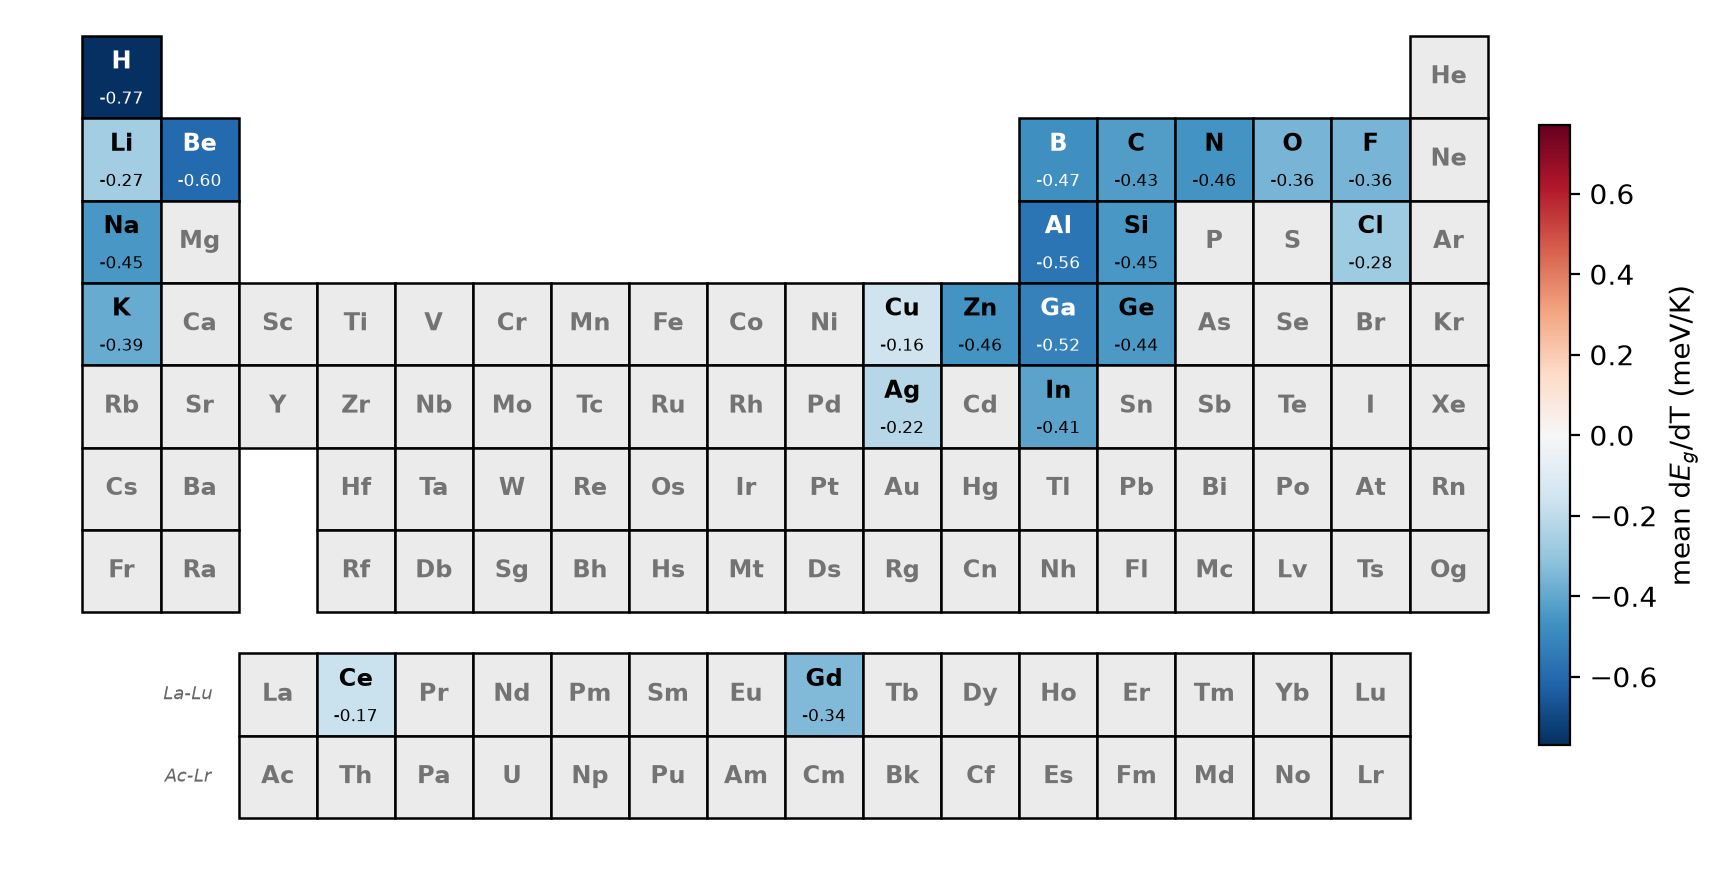
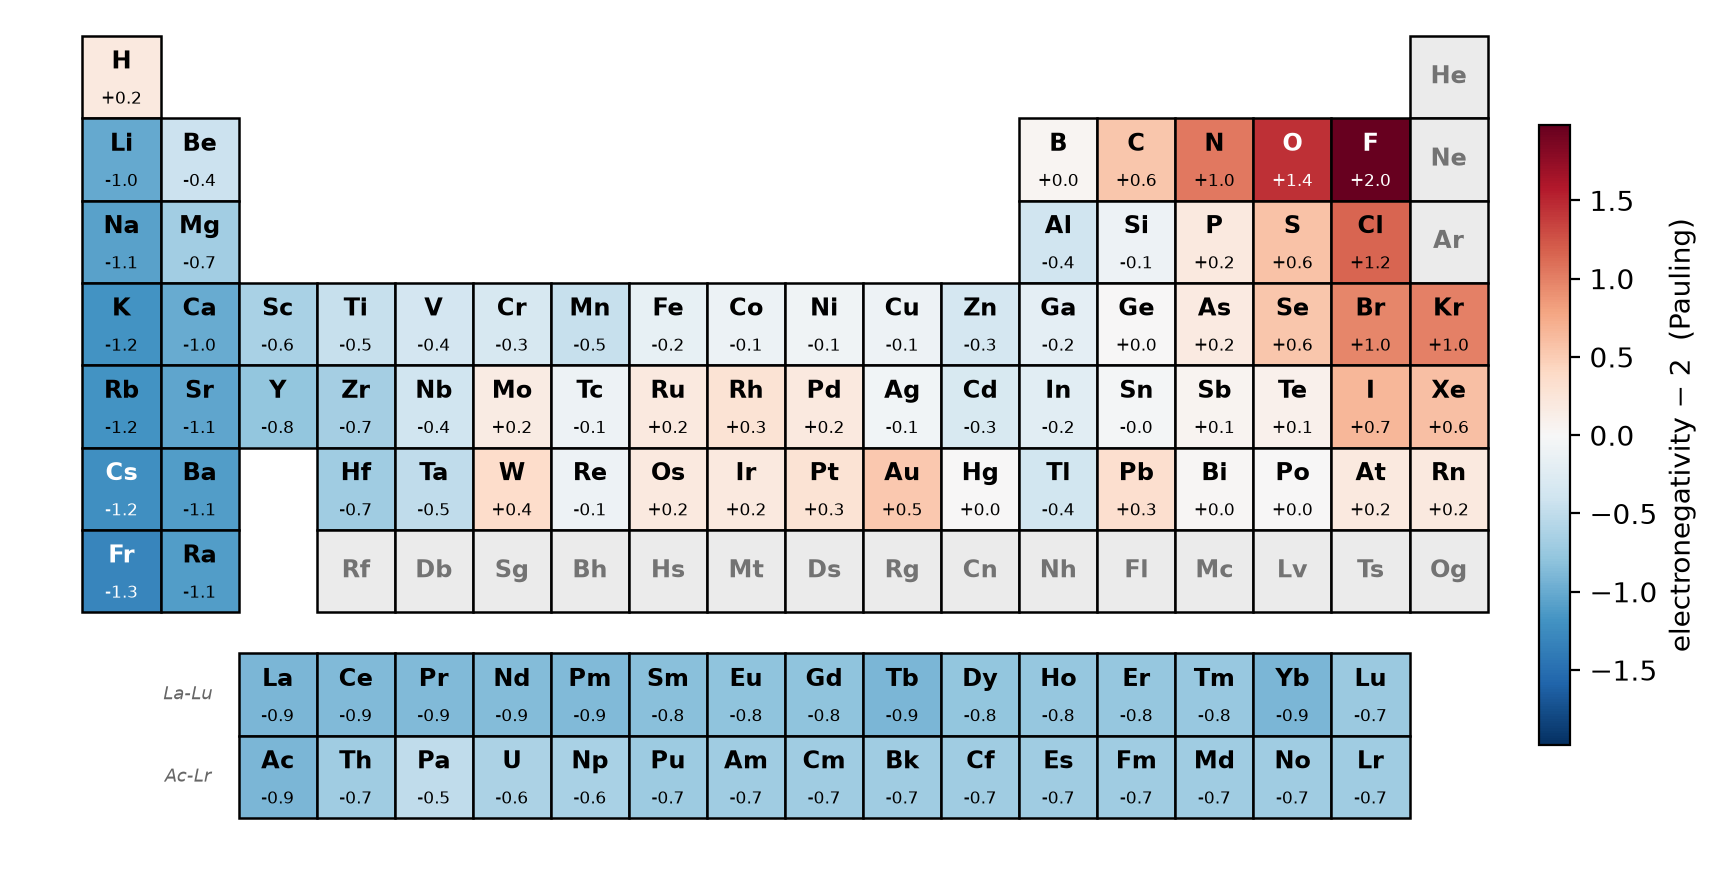
docs: fuller diverging example (electronegativity - 2, ~100 elements, both poles)

diff --git a/docs/make_readme_figure.py b/docs/make_readme_figure.py
@@ -28,12 +28,10 @@ electronegativity = {
 pp.periodic_table(electronegativity, label="Pauling electronegativity",
                   figsize=(10, 5.4), savepath="example.png", dpi=200)
 
-# diverging example (property defined for a subset)
-slope = {"H": -0.77, "Li": -0.27, "Be": -0.60, "B": -0.47, "C": -0.43, "N": -0.46,
-         "O": -0.36, "F": -0.36, "Na": -0.45, "Al": -0.56, "Si": -0.45, "Cl": -0.28,
-         "K": -0.39, "Ga": -0.52, "Ge": -0.44, "Cu": -0.16, "Zn": -0.46, "Ag": -0.22,
-         "In": -0.41, "Ce": -0.17, "Gd": -0.34}
-pp.periodic_table(slope, cmap="RdBu_r", norm="diverging", figsize=(10, 5.4),
-                  label="mean d$E_g$/dT (meV/K)", value_fmt="{:+.2f}",
+# diverging example: electronegativity relative to the metal/non-metal boundary
+# (chi - 2 on the Pauling scale) -> metals go blue, non-metals red, centred at 0
+diverging = {s: round(chi - 2.0, 2) for s, chi in electronegativity.items()}
+pp.periodic_table(diverging, cmap="RdBu_r", norm="diverging", figsize=(10, 5.4),
+                  label="electronegativity $-$ 2  (Pauling)", value_fmt="{:+.1f}",
                   savepath="example_diverging.png", dpi=200)
 print("wrote docs/example.png (electronegativity) + docs/example_diverging.png")

diff --git a/README.md b/README.md
@@ -48,8 +48,8 @@ pp.periodic_table([26, 8], [0.9, 2.7])       # parallel sequences (Z or symbol)
 ### Diverging property (centred at 0)
 
 ```python
-pp.periodic_table(slopes, cmap="RdBu_r", norm="diverging",
-                  label="d$E_g$/dT (meV/K)")
+pp.periodic_table(values, cmap="RdBu_r", norm="diverging",
+                  label="electronegativity $-$ 2")
 ```
 
 ![diverging example](docs/example_diverging.png)
